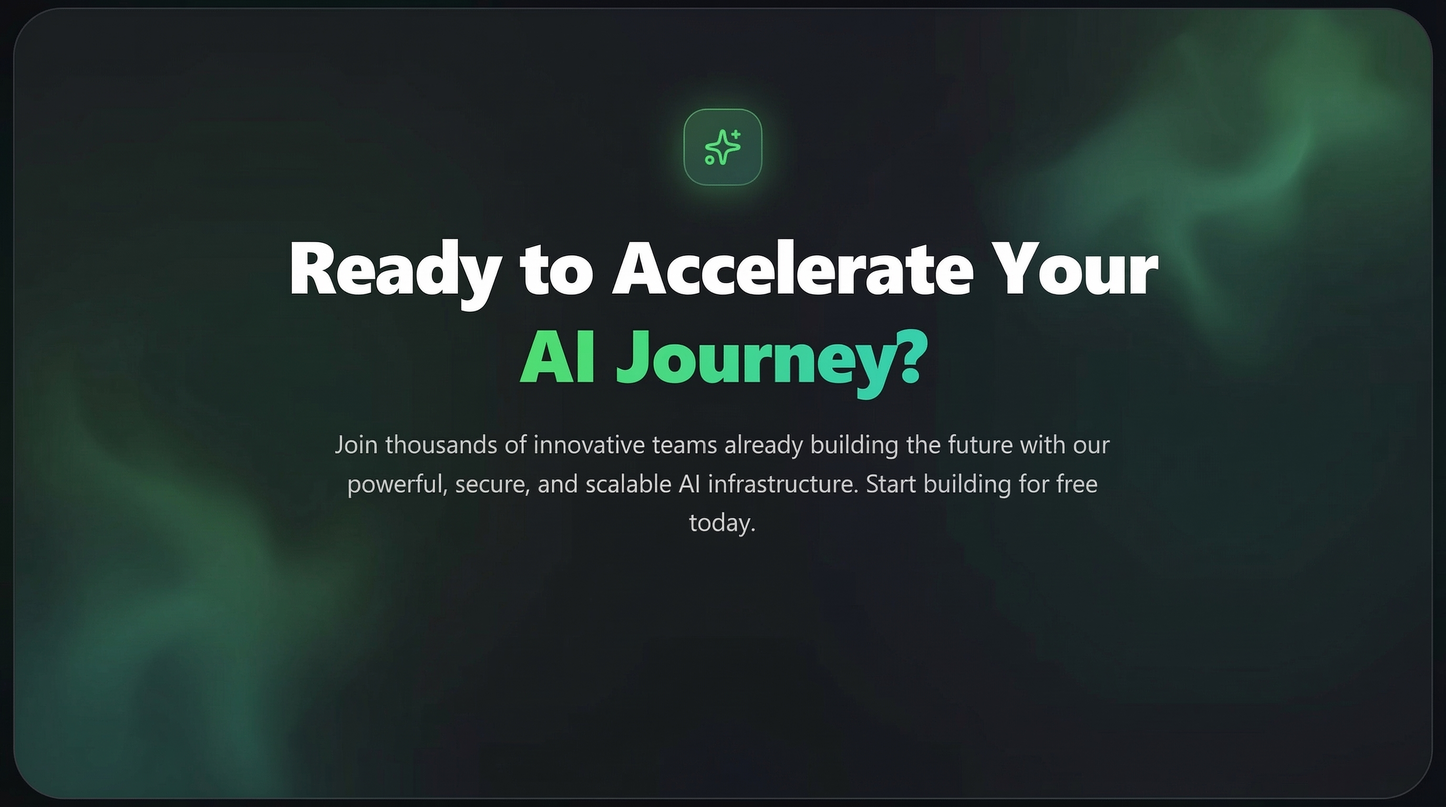
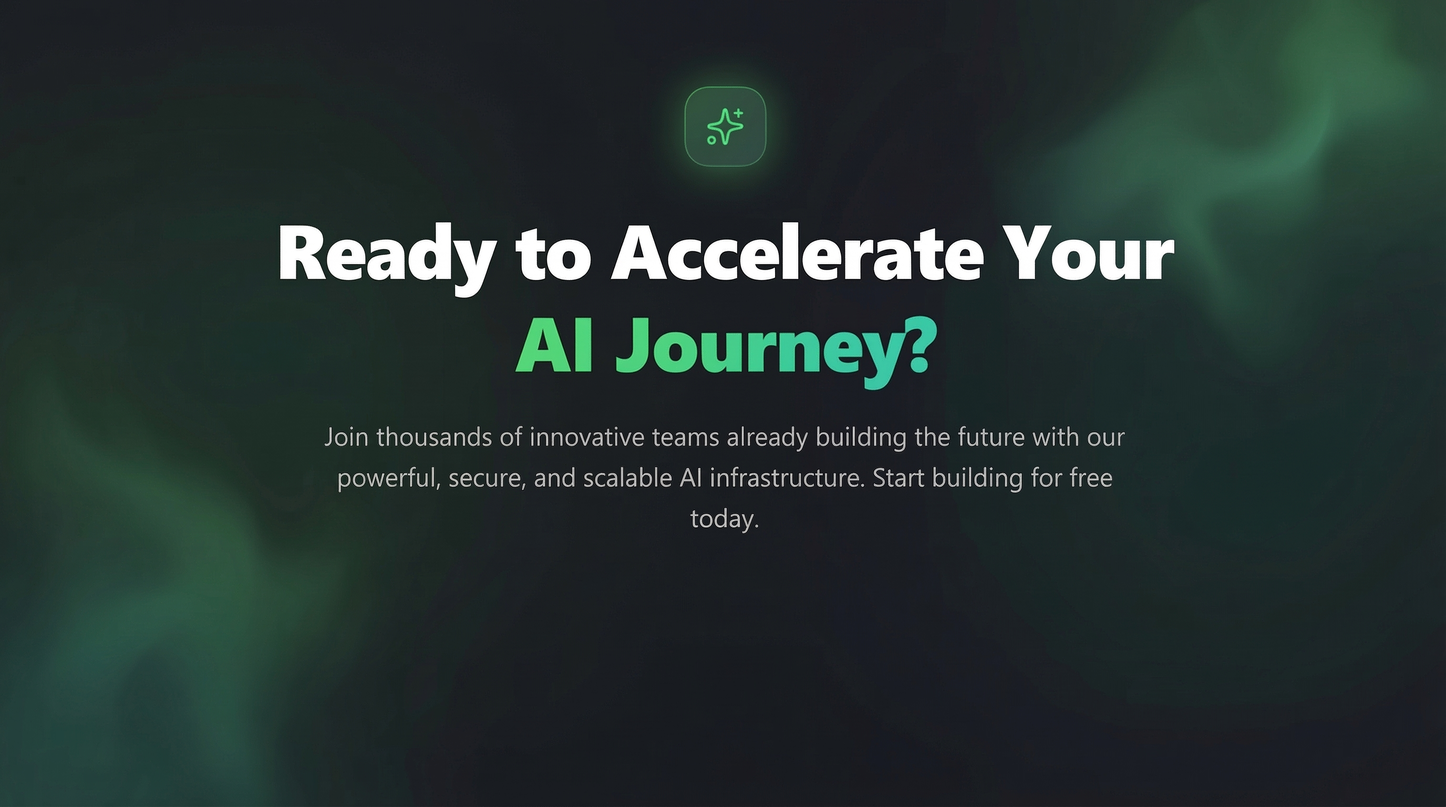
feat: introduce a new Call-to-Action (CTA) section, including its component and image asset.

diff --git a/components/CTA.tsx b/components/CTA.tsx
@@ -17,7 +17,7 @@ export function CTA() {
             alt="CTA Presentation"
             width={1200}
             height={800}
-            className="w-full h-auto object-cover transition-transform duration-700 group-hover:scale-105"
+            className="w-full h-auto object-cover scale-[1.03] md:scale-[1.05] transition-transform duration-700 group-hover:scale-[1.08] md:group-hover:scale-110"
             priority
           />
 
